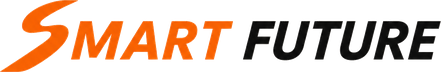
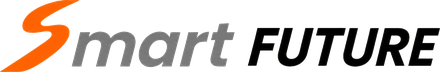
로고 교체(Smart FUTURE) + 앱 배경 회색→흰색 + 사업자 금리현황 위 여백 축소
- static/images/smart_future.png: 새 로고(S주황+mart회색+FUTURE검정)로 교체
- 모바일 앱 배경 #F4F5F7 → #fff (pension body / index iframe)
- biz-panel 하단 여백 14→8px

diff --git a/pension.html b/pension.html
@@ -342,6 +342,7 @@
     .mind-wrap, .biz-mobile{ --orange:#F58220; --orange-d:#CB6015; --orange-l:#FEF2E8;
            --navy:#043B72; --navy-d:#032A52; --navy-l:#E9EFF6; }
     .wrap{padding:10px}
+    body{background:#fff}   /* 앱 배경 회색 → 흰색 */
     /* 가로(옆) 스크롤 방지 — 모든 표/컨테이너가 화면 폭을 넘지 않음 */
     html,body{overflow-x:hidden}
     .prop-scroll,.sv-scroll,.stats,.biz-list,.biz-mobile{overflow-x:hidden}
@@ -365,7 +366,7 @@
     .tablecard{background:none;border:none;box-shadow:none;padding:0;margin:0}
     .biz-mobile{display:block;margin-top:2px}
     /* 검색/필터 박스 */
-    .biz-panel{background:#F5F7FA;border:1px solid var(--line);border-radius:18px;padding:16px 15px 18px;box-shadow:0 2px 10px rgba(16,24,40,.04);margin-bottom:14px}
+    .biz-panel{background:#F5F7FA;border:1px solid var(--line);border-radius:18px;padding:16px 15px 18px;box-shadow:0 2px 10px rgba(16,24,40,.04);margin-bottom:8px}
     .biz-search{position:relative;margin-bottom:14px}
     .biz-search input{width:100%;box-sizing:border-box;border:1.5px solid var(--line);border-radius:12px;
         font-family:inherit;font-size:14px;color:var(--ink);padding:13px 44px 13px 14px;outline:none;background:var(--white)}

diff --git a/templates/index.html b/templates/index.html
@@ -53,7 +53,7 @@ body{font-family:'Malgun Gothic','맑은 고딕',-apple-system,BlinkMacSystemFon
 
 /* ── 통합 패널 / 임베드 iframe ── */
 .super-panel{}
-.pension-frame{width:100%;height:calc(100vh - 124px);border:none;display:block;background:#f4f5f7}
+.pension-frame{width:100%;height:calc(100vh - 124px);border:none;display:block;background:#fff}
 .hdr-logo-svg{height:48px;width:auto;display:block}
 .hdr-sub{font-size:.7rem;color:#ffe2cc;margin-top:3px}
 .hdr-right{display:flex;align-items:center;gap:10px;flex-wrap:wrap}
